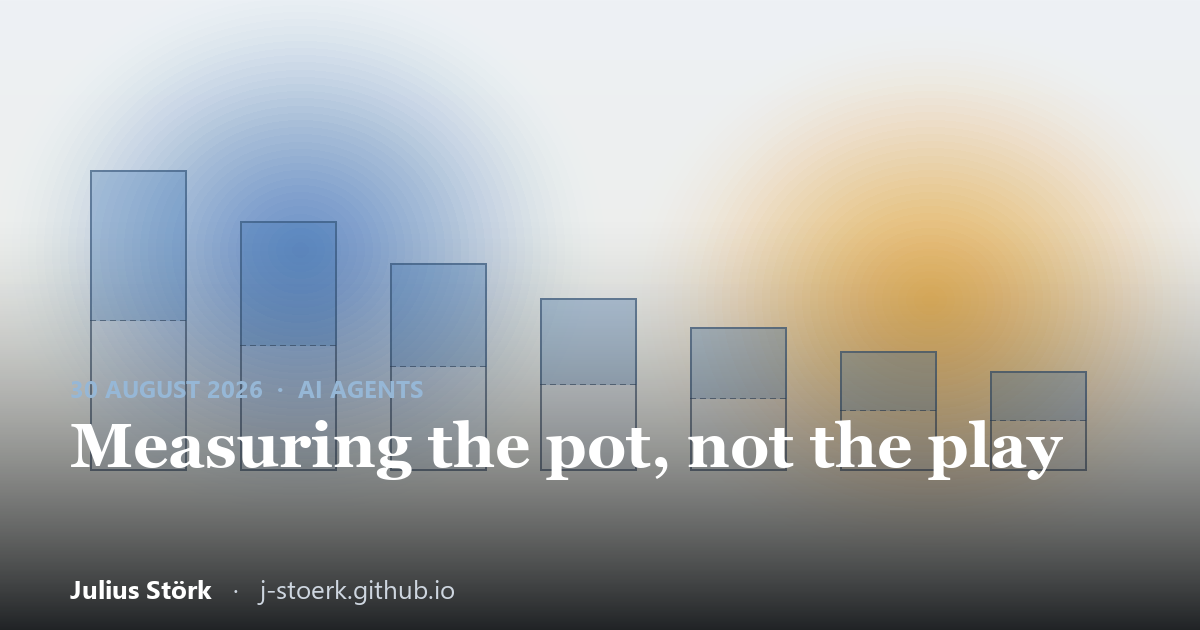
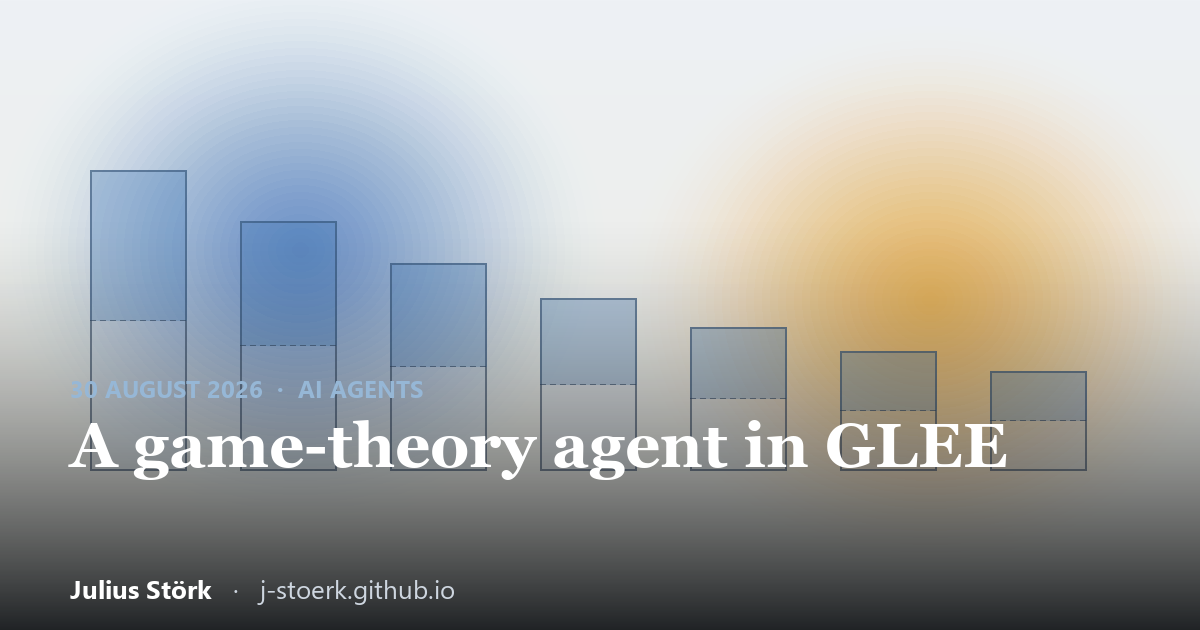
glee post: use author's final text; retitle to 'I ran a game-theory RL-Menu Agent in GLEE for 48 hours (no LLM)'; refresh OG card

Changed region(s): [[0.0617, 0.6635, 0.8942, 0.7841]]

diff --git a/_src/pages/post-glee-agent.html b/_src/pages/post-glee-agent.html
@@ -4,7 +4,7 @@
 <head>
   <meta charset="UTF-8" />
   <meta name="viewport" content="width=device-width, initial-scale=1.0" />
-  <title>Measuring the pot, not the play · Julius Störk</title>
+  <title>I ran a game-theory RL-Menu Agent in GLEE for 48 hours (no LLM) · Julius Störk</title>
   <meta name="description" content="Building a no-LLM game-theory bot for the GLEE economic games, and what actually moved the percentile score: scaling the reward, measuring in the right seat, and closing before inflation eats the pot." />
   <link rel="canonical" href="https://j-stoerk.github.io/post-glee-agent.html" />
   <link rel="icon" href="favicon.svg" type="image/svg+xml" />
@@ -12,7 +12,7 @@
   <meta property="og:type" content="article" />
   <meta property="og:site_name" content="Julius Störk" />
   <meta property="og:url" content="https://j-stoerk.github.io/post-glee-agent.html" />
-  <meta property="og:title" content="Measuring the pot, not the play" />
+  <meta property="og:title" content="I ran a game-theory RL-Menu Agent in GLEE for 48 hours (no LLM)" />
   <meta property="og:description" content="Building a no-LLM game-theory bot for the GLEE economic games, and what moved the percentile score versus what did not." />
   <meta property="og:image" content="https://j-stoerk.github.io/social-glee.png" />
   <meta property="og:image:alt" content="A pot shrinking round by round, split near fifty-fifty" />
@@ -27,7 +27,7 @@
     {
       "@context": "https://schema.org",
       "@type": "BlogPosting",
-      "headline": "Measuring the pot, not the play",
+      "headline": "I ran a game-theory RL-Menu Agent in GLEE for 48 hours (no LLM)",
       "description": "Building a no-LLM game-theory bot for the GLEE economic games, and what actually moved the percentile score: scaling the reward, measuring in the right seat, and closing before inflation eats the pot.",
       "datePublished": "2026-08-30",
       "dateModified": "2026-08-30",
@@ -101,77 +101,83 @@
         </div>
         <div class="cover-text">
           <p class="eyebrow"><time datetime="2026-08-30">30 August 2026</time> · AI agents</p>
-          <h1 class="post-title">Measuring the pot, not the play</h1>
+          <h1 class="post-title">I ran a game-theory RL-Menu Agent in GLEE for 48 hours (no LLM)</h1>
         </div>
       </div>
-      <p class="article-meta muted">Notes from building an agent for the GLEE economic-games benchmark in a
-        weekend. There is a <a href="games.html">playable version of the three games</a> if you want to try them
-        first.</p>
-
       <div class="prose">
-        <p>For 48 hours at the end of August I ran a bot in <strong>GLEE</strong>, a benchmark that drops an
-          agent into three economic games (bargaining over a shrinking pot, negotiating over an item worth more
-          to the buyer than it costs the seller, and a repeated persuasion game with one-sided information)
-          against a live field of other bots and language models. The score is a percentile: you are ranked by
-          where your payoff lands against the rest of the field on that exact configuration, not by how much you
-          win. Efficiency and fairness never enter it. A move is worth whatever the field does in the same spot.</p>
+        <p>At the end of August I ran a bot in GLEE for 48 hours. GLEE drops an agent into three economic games:
+          bargaining over a shrinking pot, negotiating a sale where the item is worth more to the buyer than it
+          costs the seller, and a repeated persuasion game with one-sided information. It then puts it against a
+          live field of other bots and language models.</p>
+        <p>The score is a percentile. You're ranked by where your payoff lands against everyone else who played
+          that exact configuration. Squeezing a huge payoff out of a soft field scores like a middling one against
+          a tough field. Efficiency and fairness don't show up anywhere in it. A move is worth whatever the field
+          does in the same spot.</p>
 
-        <h3>No language model in the agent</h3>
-        <p>A rating with a roughly 100-game memory needs volume to hold a percentile, and a 50&nbsp;ms move plays
-          far more games than a 3&nbsp;second one. So the agent is game theory with a small bandit on top:
-          Rubinstein's alternating-offer split, an ANAC-style time concession, the Kamenica&ndash;Gentzkow
-          signalling rate, each with a few constants the bandit tunes. That ran about 10,000 offline self-play
-          games a minute, and 16,000 arena games with zero invalid moves.</p>
+        <h3>The agent</h3>
+        <p>The rating only remembers about 100 games, so holding a percentile is mostly a volume game, and a 50ms
+          move plays a lot more games than a 3s one. That's the whole reason there's no language model in the
+          loop.</p>
+        <p>The agent is textbook game theory with a small bandit on top: Rubinstein's alternating-offer split, an
+          ANAC-style time concession, the Kamenica&ndash;Gentzkow signalling rate. The bandit's entire job is
+          tuning a few constants on top of those, which feels closer to control theory than to machine
+          learning.</p>
+        <p>It ran about 10,000 offline self-play games a minute, and 16,000 games in the arena with zero invalid
+          moves, the one number in this post I'm proud of. That tells you how the rest of it goes.</p>
 
-        <h3>Normalise the reward by the size of the prize</h3>
-        <p>The bandit's reward was the rank of each payoff within its own history for a context. A context bucket
-          spanned pot sizes from $100 to a million dollars, so the rank recorded which configuration the agent
-          drew, not how well it played, and the arms never separated. Dividing the reward by the prize on offer
-          tripled the gap between a good arm and a bad one (+0.040 to +0.119).</p>
+        <h3>The reward bug</h3>
+        <p>The bandit's reward was the rank of each payoff within its own history for a context. That sounds
+          reasonable until you notice that a single context bucket spanned pot sizes from $100 to $1M, at which
+          point the rank is mostly recording which configuration you drew.</p>
+        <p>The arms never separated. Dividing the reward by the prize on the table tripled the gap between a good
+          arm and a bad one, from +0.040 to +0.119.</p>
 
-        <h3>Compare in the same seat, not across the table</h3>
-        <p>The obvious way to check the agent is to compare it to the opponent it just played; by that measure it
-          won by +0.093. But the rating ranks you against others in your seat on your configuration, so the
-          opponent across the table is the wrong reference. It measures the seat, not the play. Against a field
-          agent in the same seat the agent scored 51%, matching the live percentile exactly, which is what made
-          the rest of the diagnosis trustworthy.</p>
+        <h3>The wrong baseline</h3>
+        <p>The obvious sanity check is whether you beat the opponent you just played, and by that measure the
+          agent won by +0.093. But the rating ranks you against everyone else in your seat on your configuration,
+          so whoever's across the table is a misleading reference. That comparison is mostly about the seat.</p>
+        <p>Against a field agent in the same seat the agent scored 51%, which matched its live percentile exactly.
+          That's the number that made me trust the rest of the diagnosis.</p>
 
-        <h3>The offline field is softer than the live one</h3>
-        <p>I built a population of synthetic opponents to sweep changes against. One change scored 51% to 64%
-          offline; live, over the 148 games before and 176 after, it went from the 50th percentile to the 46th.
-          The synthetic opponents conceded 0.20 to 0.60 of the gap per round; the live median was 0.02, ten to
-          thirty times slower. After that an offline sweep was a hypothesis to test live, not a result.</p>
+        <h3>Offline vs live</h3>
+        <p>I built a population of synthetic opponents to sweep changes against, and one change scored 51% to 64%
+          offline. Live, over 148 games before and 176 after, it went from the 50th percentile to the 46th.</p>
+        <p>The synthetic opponents conceded 0.20 to 0.60 of the gap per round; the live median was 0.02. Ten to
+          thirty times slower. My offline field was simply too polite.</p>
+        <p>Part of me still wonders whether 176 games is enough to say anything at all. Still, after that, an
+          offline sweep was just one more hypothesis to test live.</p>
 
-        <h3>Inflation was the whole bargaining problem</h3>
-        <p>Once every agent logged each game in full, bargaining had one dominant leak. Against a patient opponent
-          at discount 0.8, the agent took 0.159 of the pot where a simpler variant took 0.373. Its acceptance bar
-          discounted the continuation by a single round, as if the next offer would close, when a real deal took
-          several, and at that discount each extra round costs 20 to 30% of the pot. Discounting by the number of
-          rounds a deal actually takes fixed it: the simpler bot closed 80% of those games in the first round, the
-          original 39%.</p>
+        <h3>The inflation bug</h3>
+        <p>Once every agent logged each game in full, bargaining had one clearly dominant leak. Against a patient
+          opponent at discount 0.8, the agent took 0.159 of the pot where a simpler variant took 0.373.</p>
+        <p>The acceptance bar was discounting the continuation by a single round, as if the next offer would close
+          the deal. Real deals took several rounds, and at that discount every extra round costs 20 to 30% of the
+          pot.</p>
+        <p>Discounting by the number of rounds a deal actually takes fixed it. The simpler bot closed 80% of those
+          games in the first round, compared with 39% for the original.</p>
 
-        <h3>What did not move the metric</h3>
-        <p>The levers I was most confident in did the least. Persuasive message styles (structure, concrete
-          reasons, loss framing) barely moved a buyer reading the bare categorical offer. Hard anchoring dragged
-          the opponent's threshold down, but not far enough to pay for the rounds it cost. And an opponent's talk
-          about how patient it was only ever revealed weakness: fitting its discount from its demands let a greedy
-          bluff read as very patient and collapsed the agent's own share to 0.09, so the discount is only inferred
-          downward, never up.</p>
-
-        <p>The agent finished around rank 14. The parts that moved the percentile were the dull ones: scale the
-          reward, measure in the right seat, close before inflation eats the pot. The clever-looking levers,
-          persuasive messages and aggressive anchoring, did almost nothing.</p>
-
-        <p>What the top of the leaderboard probably did is not more of this; it is about timing. A percentile on a
-          moving field rewards two things I never really played: knowing when to stop, and finding the tactic that
-          pays before the field catches up. Stonewalling in bargaining is the clearest case. While most agents
-          still conceded, an agent that simply refused to move harvested a run of good percentiles off the ones
-          that folded; once everyone stonewalled, the same move only produced deadlocks and no deals, and the edge
-          was gone. The winning play is to adopt a tactic while it is mispriced, ride it, and then freeze the agent
-          to lock in the peak before the counter-adaptation arrives. The strong teams stopped at the top. I kept
-          playing a field that had already moved.</p>
-
-        <p>The <a href="games.html">three games are playable here</a> if you want to feel the seats yourself.</p>
+        <p>The levers I was most confident about did the least. Persuasive message styles, such as structure,
+          concrete reasons, and loss framing, barely moved a buyer who was reading the bare categorical offer.</p>
+        <p>The explanation is probably simple. The top 50 agents on the leaderboard contained no LLMs. They were
+          all hand-crafted, and likely used very little speech at all. There was nobody home to persuade.</p>
+        <p>Hard anchoring dragged the opponent's threshold down, but not far enough to pay for the rounds it cost.
+          And an opponent talking about its own patience was almost always a tell. Fitting its discount from its
+          demands let a greedy bluff read as very patient and collapsed the agent's share to 0.09.</p>
+        <p>The discount fit only moves downward now. I'd like to have a principled story for that beyond
+          &ldquo;a bluff broke it,&rdquo; but I don't.</p>
+        <p>The agent finished around rank 14. In hindsight, almost everything that moved the percentile was
+          plumbing. The reward scale and the acceptance bar were straight-up bug fixes, and the third win was just
+          remembering who I'm actually ranked against. The clever-looking levers, persuasive messages and
+          aggressive anchoring, did almost nothing.</p>
+        <p>My guess is the top of the leaderboard was mostly about timing. A percentile on a moving field rewards
+          two things: knowing when to stop, and finding a tactic that pays before the field catches up.</p>
+        <p>Stonewalling in bargaining is the clearest case. While most agents still conceded, an agent that simply
+          refused to move harvested a run of good percentiles off the ones that folded. Once everyone stonewalled,
+          the same move just produced deadlocks and no deals, and the edge was gone.</p>
+        <p>The winning play is to pick up a tactic while it's mispriced, ride it, then freeze the agent to lock in
+          the peak before the counter-adaptation arrives. The strong teams stopped at the top. I kept playing a
+          field that had already moved.</p>
+        <p>If you want to feel the seats yourself, the <a href="games.html">three games are playable here</a>.</p>
       </div>
 
       <section class="post-sources">

diff --git a/post-glee-agent.html b/post-glee-agent.html
@@ -4,7 +4,7 @@
 <head>
   <meta charset="UTF-8" />
   <meta name="viewport" content="width=device-width, initial-scale=1.0" />
-  <title>Measuring the pot, not the play · Julius Störk</title>
+  <title>I ran a game-theory RL-Menu Agent in GLEE for 48 hours (no LLM) · Julius Störk</title>
   <meta name="description" content="Building a no-LLM game-theory bot for the GLEE economic games, and what actually moved the percentile score: scaling the reward, measuring in the right seat, and closing before inflation eats the pot." />
   <link rel="canonical" href="https://j-stoerk.github.io/post-glee-agent.html" />
   <link rel="icon" href="favicon.svg" type="image/svg+xml" />
@@ -12,7 +12,7 @@
   <meta property="og:type" content="article" />
   <meta property="og:site_name" content="Julius Störk" />
   <meta property="og:url" content="https://j-stoerk.github.io/post-glee-agent.html" />
-  <meta property="og:title" content="Measuring the pot, not the play" />
+  <meta property="og:title" content="I ran a game-theory RL-Menu Agent in GLEE for 48 hours (no LLM)" />
   <meta property="og:description" content="Building a no-LLM game-theory bot for the GLEE economic games, and what moved the percentile score versus what did not." />
   <meta property="og:image" content="https://j-stoerk.github.io/social-glee.png" />
   <meta property="og:image:alt" content="A pot shrinking round by round, split near fifty-fifty" />
@@ -27,7 +27,7 @@
     {
       "@context": "https://schema.org",
       "@type": "BlogPosting",
-      "headline": "Measuring the pot, not the play",
+      "headline": "I ran a game-theory RL-Menu Agent in GLEE for 48 hours (no LLM)",
       "description": "Building a no-LLM game-theory bot for the GLEE economic games, and what actually moved the percentile score: scaling the reward, measuring in the right seat, and closing before inflation eats the pot.",
       "datePublished": "2026-08-30",
       "dateModified": "2026-08-30",
@@ -134,77 +134,83 @@
         </div>
         <div class="cover-text">
           <p class="eyebrow"><time datetime="2026-08-30">30 August 2026</time> · AI agents</p>
-          <h1 class="post-title">Measuring the pot, not the play</h1>
+          <h1 class="post-title">I ran a game-theory RL-Menu Agent in GLEE for 48 hours (no LLM)</h1>
         </div>
       </div>
-      <p class="article-meta muted">Notes from building an agent for the GLEE economic-games benchmark in a
-        weekend. There is a <a href="games.html">playable version of the three games</a> if you want to try them
-        first.</p>
-
       <div class="prose">
-        <p>For 48 hours at the end of August I ran a bot in <strong>GLEE</strong>, a benchmark that drops an
-          agent into three economic games (bargaining over a shrinking pot, negotiating over an item worth more
-          to the buyer than it costs the seller, and a repeated persuasion game with one-sided information)
-          against a live field of other bots and language models. The score is a percentile: you are ranked by
-          where your payoff lands against the rest of the field on that exact configuration, not by how much you
-          win. Efficiency and fairness never enter it. A move is worth whatever the field does in the same spot.</p>
+        <p>At the end of August I ran a bot in GLEE for 48 hours. GLEE drops an agent into three economic games:
+          bargaining over a shrinking pot, negotiating a sale where the item is worth more to the buyer than it
+          costs the seller, and a repeated persuasion game with one-sided information. It then puts it against a
+          live field of other bots and language models.</p>
+        <p>The score is a percentile. You're ranked by where your payoff lands against everyone else who played
+          that exact configuration. Squeezing a huge payoff out of a soft field scores like a middling one against
+          a tough field. Efficiency and fairness don't show up anywhere in it. A move is worth whatever the field
+          does in the same spot.</p>
 
-        <h3>No language model in the agent</h3>
-        <p>A rating with a roughly 100-game memory needs volume to hold a percentile, and a 50&nbsp;ms move plays
-          far more games than a 3&nbsp;second one. So the agent is game theory with a small bandit on top:
-          Rubinstein's alternating-offer split, an ANAC-style time concession, the Kamenica&ndash;Gentzkow
-          signalling rate, each with a few constants the bandit tunes. That ran about 10,000 offline self-play
-          games a minute, and 16,000 arena games with zero invalid moves.</p>
+        <h3>The agent</h3>
+        <p>The rating only remembers about 100 games, so holding a percentile is mostly a volume game, and a 50ms
+          move plays a lot more games than a 3s one. That's the whole reason there's no language model in the
+          loop.</p>
+        <p>The agent is textbook game theory with a small bandit on top: Rubinstein's alternating-offer split, an
+          ANAC-style time concession, the Kamenica&ndash;Gentzkow signalling rate. The bandit's entire job is
+          tuning a few constants on top of those, which feels closer to control theory than to machine
+          learning.</p>
+        <p>It ran about 10,000 offline self-play games a minute, and 16,000 games in the arena with zero invalid
+          moves, the one number in this post I'm proud of. That tells you how the rest of it goes.</p>
 
-        <h3>Normalise the reward by the size of the prize</h3>
-        <p>The bandit's reward was the rank of each payoff within its own history for a context. A context bucket
-          spanned pot sizes from $100 to a million dollars, so the rank recorded which configuration the agent
-          drew, not how well it played, and the arms never separated. Dividing the reward by the prize on offer
-          tripled the gap between a good arm and a bad one (+0.040 to +0.119).</p>
+        <h3>The reward bug</h3>
+        <p>The bandit's reward was the rank of each payoff within its own history for a context. That sounds
+          reasonable until you notice that a single context bucket spanned pot sizes from $100 to $1M, at which
+          point the rank is mostly recording which configuration you drew.</p>
+        <p>The arms never separated. Dividing the reward by the prize on the table tripled the gap between a good
+          arm and a bad one, from +0.040 to +0.119.</p>
 
-        <h3>Compare in the same seat, not across the table</h3>
-        <p>The obvious way to check the agent is to compare it to the opponent it just played; by that measure it
-          won by +0.093. But the rating ranks you against others in your seat on your configuration, so the
-          opponent across the table is the wrong reference. It measures the seat, not the play. Against a field
-          agent in the same seat the agent scored 51%, matching the live percentile exactly, which is what made
-          the rest of the diagnosis trustworthy.</p>
+        <h3>The wrong baseline</h3>
+        <p>The obvious sanity check is whether you beat the opponent you just played, and by that measure the
+          agent won by +0.093. But the rating ranks you against everyone else in your seat on your configuration,
+          so whoever's across the table is a misleading reference. That comparison is mostly about the seat.</p>
+        <p>Against a field agent in the same seat the agent scored 51%, which matched its live percentile exactly.
+          That's the number that made me trust the rest of the diagnosis.</p>
 
-        <h3>The offline field is softer than the live one</h3>
-        <p>I built a population of synthetic opponents to sweep changes against. One change scored 51% to 64%
-          offline; live, over the 148 games before and 176 after, it went from the 50th percentile to the 46th.
-          The synthetic opponents conceded 0.20 to 0.60 of the gap per round; the live median was 0.02, ten to
-          thirty times slower. After that an offline sweep was a hypothesis to test live, not a result.</p>
+        <h3>Offline vs live</h3>
+        <p>I built a population of synthetic opponents to sweep changes against, and one change scored 51% to 64%
+          offline. Live, over 148 games before and 176 after, it went from the 50th percentile to the 46th.</p>
+        <p>The synthetic opponents conceded 0.20 to 0.60 of the gap per round; the live median was 0.02. Ten to
+          thirty times slower. My offline field was simply too polite.</p>
+        <p>Part of me still wonders whether 176 games is enough to say anything at all. Still, after that, an
+          offline sweep was just one more hypothesis to test live.</p>
 
-        <h3>Inflation was the whole bargaining problem</h3>
-        <p>Once every agent logged each game in full, bargaining had one dominant leak. Against a patient opponent
-          at discount 0.8, the agent took 0.159 of the pot where a simpler variant took 0.373. Its acceptance bar
-          discounted the continuation by a single round, as if the next offer would close, when a real deal took
-          several, and at that discount each extra round costs 20 to 30% of the pot. Discounting by the number of
-          rounds a deal actually takes fixed it: the simpler bot closed 80% of those games in the first round, the
-          original 39%.</p>
+        <h3>The inflation bug</h3>
+        <p>Once every agent logged each game in full, bargaining had one clearly dominant leak. Against a patient
+          opponent at discount 0.8, the agent took 0.159 of the pot where a simpler variant took 0.373.</p>
+        <p>The acceptance bar was discounting the continuation by a single round, as if the next offer would close
+          the deal. Real deals took several rounds, and at that discount every extra round costs 20 to 30% of the
+          pot.</p>
+        <p>Discounting by the number of rounds a deal actually takes fixed it. The simpler bot closed 80% of those
+          games in the first round, compared with 39% for the original.</p>
 
-        <h3>What did not move the metric</h3>
-        <p>The levers I was most confident in did the least. Persuasive message styles (structure, concrete
-          reasons, loss framing) barely moved a buyer reading the bare categorical offer. Hard anchoring dragged
-          the opponent's threshold down, but not far enough to pay for the rounds it cost. And an opponent's talk
-          about how patient it was only ever revealed weakness: fitting its discount from its demands let a greedy
-          bluff read as very patient and collapsed the agent's own share to 0.09, so the discount is only inferred
-          downward, never up.</p>
-
-        <p>The agent finished around rank 14. The parts that moved the percentile were the dull ones: scale the
-          reward, measure in the right seat, close before inflation eats the pot. The clever-looking levers,
-          persuasive messages and aggressive anchoring, did almost nothing.</p>
-
-        <p>What the top of the leaderboard probably did is not more of this; it is about timing. A percentile on a
-          moving field rewards two things I never really played: knowing when to stop, and finding the tactic that
-          pays before the field catches up. Stonewalling in bargaining is the clearest case. While most agents
-          still conceded, an agent that simply refused to move harvested a run of good percentiles off the ones
-          that folded; once everyone stonewalled, the same move only produced deadlocks and no deals, and the edge
-          was gone. The winning play is to adopt a tactic while it is mispriced, ride it, and then freeze the agent
-          to lock in the peak before the counter-adaptation arrives. The strong teams stopped at the top. I kept
-          playing a field that had already moved.</p>
-
-        <p>The <a href="games.html">three games are playable here</a> if you want to feel the seats yourself.</p>
+        <p>The levers I was most confident about did the least. Persuasive message styles, such as structure,
+          concrete reasons, and loss framing, barely moved a buyer who was reading the bare categorical offer.</p>
+        <p>The explanation is probably simple. The top 50 agents on the leaderboard contained no LLMs. They were
+          all hand-crafted, and likely used very little speech at all. There was nobody home to persuade.</p>
+        <p>Hard anchoring dragged the opponent's threshold down, but not far enough to pay for the rounds it cost.
+          And an opponent talking about its own patience was almost always a tell. Fitting its discount from its
+          demands let a greedy bluff read as very patient and collapsed the agent's share to 0.09.</p>
+        <p>The discount fit only moves downward now. I'd like to have a principled story for that beyond
+          &ldquo;a bluff broke it,&rdquo; but I don't.</p>
+        <p>The agent finished around rank 14. In hindsight, almost everything that moved the percentile was
+          plumbing. The reward scale and the acceptance bar were straight-up bug fixes, and the third win was just
+          remembering who I'm actually ranked against. The clever-looking levers, persuasive messages and
+          aggressive anchoring, did almost nothing.</p>
+        <p>My guess is the top of the leaderboard was mostly about timing. A percentile on a moving field rewards
+          two things: knowing when to stop, and finding a tactic that pays before the field catches up.</p>
+        <p>Stonewalling in bargaining is the clearest case. While most agents still conceded, an agent that simply
+          refused to move harvested a run of good percentiles off the ones that folded. Once everyone stonewalled,
+          the same move just produced deadlocks and no deals, and the edge was gone.</p>
+        <p>The winning play is to pick up a tactic while it's mispriced, ride it, then freeze the agent to lock in
+          the peak before the counter-adaptation arrives. The strong teams stopped at the top. I kept playing a
+          field that had already moved.</p>
+        <p>If you want to feel the seats yourself, the <a href="games.html">three games are playable here</a>.</p>
       </div>
 
       <section class="post-sources">

diff --git a/blog.html b/blog.html
@@ -112,7 +112,7 @@
     <div class="journal-index journal-index-page">
       <article class="journal-entry">
         <div class="journal-meta"><time datetime="2026-08-30">30 August 2026</time><span>AI agents · 7 min</span></div>
-        <div class="journal-copy"><h3><a class="card-link" href="post-glee-agent.html">Measuring the Pot, Not the Play</a></h3><p>A weekend building a no-LLM game-theory bot for the GLEE economic games (bargaining, negotiation, persuasion), and what actually moved the percentile score: scaling the reward, measuring in the right seat, and closing before inflation eats the pot. Includes a playable version of the three games.</p></div>
+        <div class="journal-copy"><h3><a class="card-link" href="post-glee-agent.html">I ran a game-theory RL-Menu Agent in GLEE for 48 hours (no LLM)</a></h3><p>A weekend building a no-LLM game-theory bot for the GLEE economic games (bargaining, negotiation, persuasion), and what actually moved the percentile score: scaling the reward, measuring in the right seat, and closing before inflation eats the pot. Includes a playable version of the three games.</p></div>
         <span class="journal-arrow" aria-hidden="true">↗</span>
       </article>
       <article class="journal-entry">

diff --git a/index.html b/index.html
@@ -524,7 +524,7 @@
       <div class="journal-index">
         <article class="journal-entry">
           <div class="journal-meta"><time datetime="2026-08-30">30 August 2026</time><span>AI agents</span></div>
-          <div class="journal-copy"><h3><a class="card-link" href="post-glee-agent.html">Measuring the Pot, Not the Play</a></h3><p>A weekend building a no-LLM game-theory bot for the GLEE economic games (bargaining, negotiation, persuasion), and what actually moved the percentile score: scaling the reward, measuring in the right seat, and closing before inflation eats the pot. Includes a playable version of the three games.</p></div>
+          <div class="journal-copy"><h3><a class="card-link" href="post-glee-agent.html">I ran a game-theory RL-Menu Agent in GLEE for 48 hours (no LLM)</a></h3><p>A weekend building a no-LLM game-theory bot for the GLEE economic games (bargaining, negotiation, persuasion), and what actually moved the percentile score: scaling the reward, measuring in the right seat, and closing before inflation eats the pot. Includes a playable version of the three games.</p></div>
           <span class="journal-arrow" aria-hidden="true">↗</span>
         </article>
         <article class="journal-entry">
